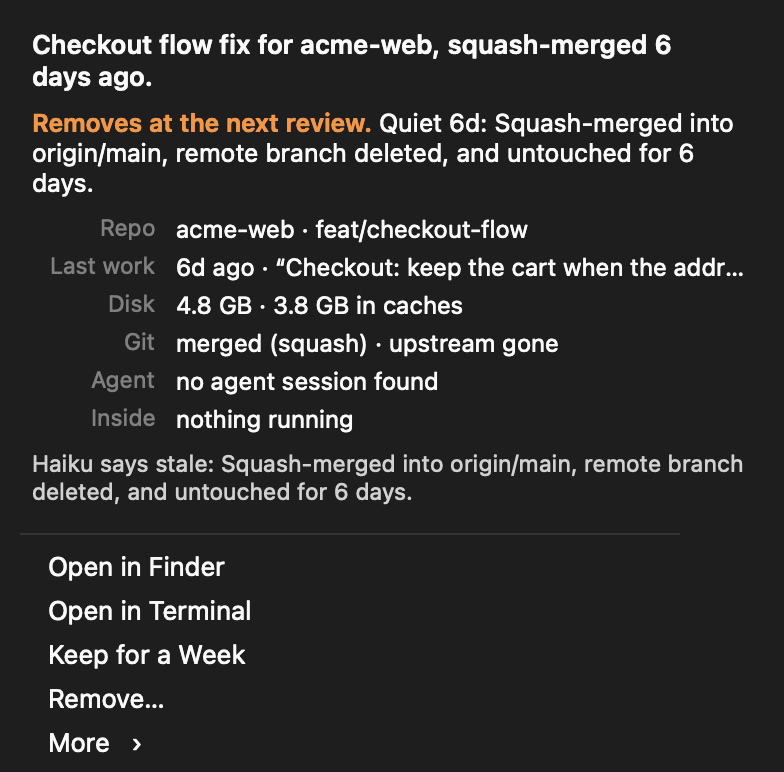
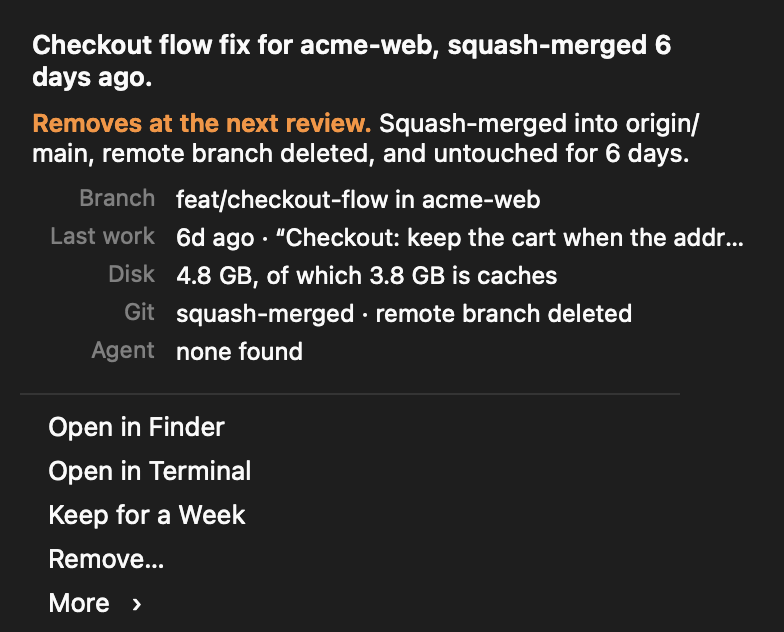
A quieter menu, held to a written standard
docs/DESIGN.md is the menu standard WorkForest and LocoHost share. The
menu now follows it:
- the header reads "5.3 GB to reclaim" with one line of counts
- the summary stops at a whole sentence
- sections carry no counts, and there are no badges
- rows show at most three facts
- cards leave out empty facts and skip the model's note when it repeats
  the status
- Main Checkouts moved into Settings
Plain words throughout: squash-merged, remote branch deleted, 1 commit
not in main.

Changed region(s): [[0.0306, 0.0301, 0.949, 0.6915], [0.0612, 0.7215, 0.3367, 0.9921]]

diff --git a/Sources/main.m b/Sources/main.m
@@ -530,11 +530,11 @@ static NSString *ShortState(WFTree *t) {
     if (t.prunable) return @"folder missing";
     if (t.dirty > 0) return Plural(t.dirty, @"change");
     if (t.untracked > 0) return [NSString stringWithFormat:@"%ld untracked", (long)t.untracked];
-    if (t.unpushed > 0 && !t.merged) return [NSString stringWithFormat:@"%ld only here", (long)t.unpushed];
-    if (t.merged) return [t.merged isEqualToString:@"ancestor"] ? @"merged" : [NSString stringWithFormat:@"merged (%@)", t.merged];
-    if ([t.upstream isEqualToString:@"gone"]) return @"upstream gone";
+    if (t.unpushed > 0 && !t.merged) return [NSString stringWithFormat:@"%@ only here", Plural(t.unpushed, @"commit")];
+    if (t.merged) return [t.merged isEqualToString:@"ancestor"] ? @"merged" : [t.merged stringByAppendingString:@"-merged"];
+    if ([t.upstream isEqualToString:@"gone"]) return @"remote branch deleted";
     if (t.locked) return @"locked";
-    if (t.notInDefault > 0) return [NSString stringWithFormat:@"%ld not in %@", (long)t.notInDefault, [t.defaultBranch.lastPathComponent ?: @"main" lastPathComponent]];
+    if (t.notInDefault > 0) return [NSString stringWithFormat:@"%@ not in %@", Plural(t.notInDefault, @"commit"), [t.defaultBranch.lastPathComponent ?: @"main" lastPathComponent]];
     return @"clean";
 }
 
@@ -542,11 +542,11 @@ static NSString *ShortState(WFTree *t) {
 static NSView *MenuHeader(uint64_t reclaim, NSString *line) {
     CGFloat w = 340;
     NSView *v = [[NSView alloc] initWithFrame:NSMakeRect(0, 0, w, 62)];
-    NSTextField *n = [NSTextField labelWithString:WFFormatBytes(reclaim)];
-    n.font = [NSFont monospacedDigitSystemFontOfSize:22 weight:NSFontWeightSemibold]; n.frame = NSMakeRect(14, 24, 200, 28); [v addSubview:n];
-    NSTextField *c = [NSTextField labelWithString:reclaim ? @"reclaimable" : @"nothing to reclaim"];
-    c.font = [NSFont systemFontOfSize:12 weight:NSFontWeightMedium]; c.textColor = NSColor.secondaryLabelColor;
-    c.alignment = NSTextAlignmentRight; c.frame = NSMakeRect(w - 164, 30, 150, 16); [v addSubview:c];
+    NSMutableAttributedString *big = [[NSMutableAttributedString alloc] initWithString:reclaim ? WFFormatBytes(reclaim) : @"Nothing"
+        attributes:@{NSFontAttributeName: [NSFont monospacedDigitSystemFontOfSize:22 weight:NSFontWeightSemibold], NSForegroundColorAttributeName: NSColor.labelColor}];
+    [big appendAttributedString:[[NSAttributedString alloc] initWithString:reclaim ? @"  to reclaim" : @"  to reclaim"
+        attributes:@{NSFontAttributeName: [NSFont systemFontOfSize:13], NSForegroundColorAttributeName: NSColor.secondaryLabelColor}]];
+    NSTextField *n = [NSTextField labelWithAttributedString:big]; n.frame = NSMakeRect(14, 24, w - 28, 28); [v addSubview:n];
     NSTextField *l = [NSTextField labelWithString:line];
     l.font = [NSFont systemFontOfSize:12]; l.textColor = NSColor.secondaryLabelColor; l.lineBreakMode = NSLineBreakByTruncatingTail;
     l.frame = NSMakeRect(14, 8, w - 28, 15); [v addSubview:l];
@@ -563,6 +563,29 @@ static NSView *MenuHeader(uint64_t reclaim, NSString *line) {
     return name;
 }
 
+/// "quiet 6d: squash-merged…" reads "squash-merged…": the card's Last work line already says how quiet it is.
+static NSString *WithoutQuietLead(NSString *why) {
+    NSRange colon = [why rangeOfString:@": "];
+    return [why hasPrefix:@"quiet "] && colon.location != NSNotFound && colon.location < 16 ? [why substringFromIndex:NSMaxRange(colon)] : why;
+}
+
+/// Whole sentences of text that fit in `lines` lines at this width, so a summary never stops mid-word.
+static NSString *FitSentences(NSString *text, NSFont *font, CGFloat width, NSInteger lines) {
+    NSMutableArray *parts = [NSMutableArray new];
+    [text enumerateSubstringsInRange:NSMakeRange(0, text.length) options:NSStringEnumerationBySentences usingBlock:^(NSString *sub, NSRange r, NSRange er, BOOL *stop) {
+        [parts addObject:[text substringWithRange:er]];
+    }];
+    CGFloat limit = lines * (font.ascender - font.descender + font.leading) + 1;
+    NSMutableString *out = [NSMutableString new];
+    for (NSString *p in parts) {
+        NSString *next = [[out stringByAppendingString:p] stringByTrimmingCharactersInSet:NSCharacterSet.whitespaceAndNewlineCharacterSet];
+        CGFloat h = [next boundingRectWithSize:NSMakeSize(width, 4000) options:NSStringDrawingUsesLineFragmentOrigin attributes:@{NSFontAttributeName: font}].size.height;
+        if (h > limit && out.length) break;
+        [out setString:[out stringByAppendingString:p]];
+    }
+    return [out stringByTrimmingCharactersInSet:NSCharacterSet.whitespaceAndNewlineCharacterSet];
+}
+
 /// Will this worktree go, and when. Plan entries that wait for the first day still count.
 - (BOOL)removesNext:(WFTree *)t {
     NSDictionary *p = self.plan[t.path];
@@ -575,7 +598,7 @@ static NSView *MenuHeader(uint64_t reclaim, NSString *line) {
     if (t.prunable) return @[@"Folder is gone.", NSColor.secondaryLabelColor, @"Git still lists this worktree. Prune, under More, tidies git's record of it."];
     NSDictionary *p = self.plan[t.path];
     NSString *why = p[@"why"] ?: WFMustKeep(t, self.review) ?: @"";
-    if ([p[@"remove"] boolValue]) return @[@"Removes at the next review.", NSColor.systemOrangeColor, Sentence(Cut(why, 220))];
+    if ([p[@"remove"] boolValue]) return @[@"Removes at the next review.", NSColor.systemOrangeColor, Sentence(Cut(WithoutQuietLead(why), 220))];
     if ([why hasPrefix:@"would remove ("]) {
         NSRange end = [why rangeOfString:@"), but " options:NSBackwardsSearch];
         NSString *inner = end.location != NSNotFound ? [why substringWithRange:NSMakeRange(14, end.location - 14)] : why;
@@ -634,23 +657,28 @@ static NSView *MenuHeader(uint64_t reclaim, NSString *line) {
         x.toolTip = value;
         [rows addObject:@[l, x]];
     };
-    fact(@"Repo", [NSString stringWithFormat:@"%@ · %@", t.repoName, t.branch ?: @"detached"]);
+    fact(@"Branch", [NSString stringWithFormat:@"%@ in %@", t.branch ?: @"detached commit", t.repoName]);
     if (t.lastWork) fact(@"Last work", [NSString stringWithFormat:@"%@ ago%@", WFDuration(t.quiet),
                                         t.lastSubject.length ? [NSString stringWithFormat:@" · “%@”", t.lastSubject] : @""]);
-    fact(@"Disk", t.sizedAt ? [NSString stringWithFormat:@"%@ · %@ in caches", WFFormatBytes(t.diskBytes), WFFormatBytes(t.cacheBytes)] : @"still measuring");
+    fact(@"Disk", t.sizedAt ? (t.cacheBytes ? [NSString stringWithFormat:@"%@, of which %@ is caches", WFFormatBytes(t.diskBytes), WFFormatBytes(t.cacheBytes)] : WFFormatBytes(t.diskBytes)) : @"still measuring");
     fact(@"Git", WFStateWords(t));
-    fact(@"Agent", t.session ? WFSessionWords(t.session) : @"no agent session found");
+    NSDictionary *se = t.session;
+    NSString *seTitle = se[@"title"] ?: se[@"first_prompt"];
+    fact(@"Agent", se ? [NSString stringWithFormat:@"%@%@, %@ ago", se[@"agent"], seTitle ? [NSString stringWithFormat:@", “%@”", seTitle] : @"",
+                         Short([se[@"last_active_minutes_ago"] doubleValue] * 60)] : @"none found");
     NSMutableArray *inside = [NSMutableArray new];
     for (NSDictionary *h in t.servers) [inside addObject:[NSString stringWithFormat:@":%@ %@", h[@"port"], h[@"framework"]]];
     for (NSString *p in t.processes) [inside addObject:[p componentsSeparatedByString:@" (pid"].firstObject];
-    fact(@"Inside", inside.count ? [[NSOrderedSet orderedSetWithArray:inside].array componentsJoinedByString:@", "] : @"nothing running");
+    if (inside.count) fact(@"Running", [[NSOrderedSet orderedSetWithArray:inside].array componentsJoinedByString:@", "]);
     NSGridView *g = [NSGridView gridViewWithViews:rows];
     g.rowSpacing = 4; g.columnSpacing = 10; [g columnAtIndex:0].xPlacement = NSGridCellPlacementTrailing;
     [g columnAtIndex:0].width = 62; [g columnAtIndex:1].xPlacement = NSGridCellPlacementLeading;   // the same columns on every card
     [s addArrangedSubview:g];
-    if (v.reason.length)
+    NSString *said = [st[2] lowercaseString], *reason = [WithoutQuietLead(v.reason ?: @"") lowercaseString];
+    BOOL repeats = reason.length > 12 && [said containsString:[reason substringToIndex:MIN(reason.length, 40)]];
+    if (v.reason.length && !repeats)
         [s addArrangedSubview:Para([NSString stringWithFormat:@"%@ says %@%@: %@", WFModelLabel(self.review.model), v.verdict, v.judged ? @" after the judge" : @"", v.reason],
-                                   [NSFont systemFontOfSize:11.5], NSColor.secondaryLabelColor, inner, 3)];
+                                   [NSFont systemFontOfSize:11.5], NSColor.secondaryLabelColor, inner, 2)];
     NSSize fit = s.fittingSize;
     s.frame = NSMakeRect(0, 0, MAX(fit.width, inner + 32), fit.height);
     NSMenuItem *i = [NSMenuItem new]; i.view = s;
@@ -659,19 +687,18 @@ static NSView *MenuHeader(uint64_t reclaim, NSString *line) {
 
 - (NSMenuItem *)treeItem:(WFTree *)t showRepo:(BOOL)showRepo {
     NSString *name = [self nameFor:t];
-    NSString *branch = t.branch && ![t.branch isEqualToString:t.name] && ![t.branch hasSuffix:name] ? t.branch : nil;
     NSMenuItem *i = [[NSMenuItem alloc] initWithTitle:name action:nil keyEquivalent:@""];
-    NSString *sub = [NSString stringWithFormat:@"%@%@ · quiet %@ · %@", showRepo ? [t.repoName stringByAppendingString:@" · "] : @"",
-                     t.sizedAt ? WFFormatBytes(t.diskBytes) : @"sizing", Short(t.quiet), ShortState(t)];
+    // At most three facts: the repo when there are several, the size, and the one state the section does not already say.
+    NSString *section = WFCategory(t, self.review), *state = ShortState(t);
+    BOOL said = ([section isEqualToString:@"merged"] && (t.merged || [state isEqualToString:@"remote branch deleted"])) || [state isEqualToString:@"clean"];
+    NSMutableArray *facts = [NSMutableArray new];
+    if (showRepo) [facts addObject:t.repoName];
+    [facts addObject:t.sizedAt ? WFFormatBytes(t.diskBytes) : @"sizing"];
+    [facts addObject:said ? [NSString stringWithFormat:@"quiet %@", Short(t.quiet)] : state];
+    NSString *sub = [facts componentsJoinedByString:@" · "];
     BOOL modern = NO;
-    if (@available(macOS 14.4, *)) {
-        modern = YES;
-        i.title = branch ? [NSString stringWithFormat:@"%@   %@", Cut(name, 34), Cut(branch, 30)] : Cut(name, 48);
-        i.subtitle = sub;
-        if ([self removesNext:t]) i.badge = [[NSMenuItemBadge alloc] initWithString:@"removes next"];
-        else if (t.merged && ![WFCategory(t, self.review) isEqualToString:@"merged"]) i.badge = [[NSMenuItemBadge alloc] initWithString:@"merged"];
-    }
-    if (!modern) i.attributedTitle = Titled(branch ? [NSString stringWithFormat:@"%@   %@", Cut(name, 34), Cut(branch, 30)] : Cut(name, 48), sub);
+    if (@available(macOS 14.4, *)) { modern = YES; i.title = Cut(name, 48); i.subtitle = sub; }
+    if (!modern) i.attributedTitle = Titled(Cut(name, 48), sub);
 
     NSMenu *m = [NSMenu new];
     [m addItem:[self cardFor:t]];
@@ -740,8 +767,9 @@ static NSDictionary<NSString *, NSString *> *Prefixes(NSArray<WFTree *> *trees) 
 
     NSMenu *menu = [NSMenu new];
     NSString *line = !self.scanner.scannedAt ? @"Looking for worktrees…"
-        : [NSString stringWithFormat:@"%@ · %@ · %ld removable · %@", Plural(linked.count, @"worktree"), Plural(repos, @"repo"), (long)removable,
-           WFCurrentMode() != WFModeIdle && !WFGraceOver() ? [NSString stringWithFormat:@"%@ acts in %@", WFModeLabel(WFCurrentMode()), Short(WFGraceLeft())] : WFModeLabel(WFCurrentMode())];
+        : [NSString stringWithFormat:@"%@ in %@ · %@", Plural(linked.count, @"worktree"), Plural(repos, @"repo"),
+           WFCurrentMode() != WFModeIdle && !WFGraceOver() ? [NSString stringWithFormat:@"%@ starts in %@", WFModeLabel(WFCurrentMode()), Short(WFGraceLeft())] : WFModeLabel(WFCurrentMode())];
+    (void)removable;
     NSMenuItem *head = [NSMenuItem new];
     head.view = MenuHeader(reclaim, line);
     [menu addItem:head];
@@ -756,11 +784,11 @@ static NSDictionary<NSString *, NSString *> *Prefixes(NSArray<WFTree *> *trees) 
         note = totals.location != NSNotFound && NSMaxRange(totals) < r.summary.length ? [r.summary substringFromIndex:NSMaxRange(totals)] : r.summary;
     }
     else if (!r && linked.count) note = @"No review yet. Review Now asks Haiku or Luna which worktrees are still wanted.";
-    if (note) { [menu addItem:TextItem(note, 4)]; [menu addItem:NSMenuItem.separatorItem]; }
+    if (note) { [menu addItem:TextItem(FitSentences(note, [NSFont systemFontOfSize:12.5], 312, 3), 3)]; [menu addItem:NSMenuItem.separatorItem]; }
 
     if (clean.count) {
         NSMenuItem *go = Item(menu, @"Clean Up", self.removing ? NULL : @selector(cleanUp), self, NO);
-        go.attributedTitle = Titled(@"Clean Up", [NSString stringWithFormat:@"%@ · %@", Plural(clean.count, @"worktree"), WFFormatBytes(cleanDisk)]);
+        go.attributedTitle = Titled(@"Clean Up", [NSString stringWithFormat:@"%@, %@", Plural(clean.count, @"worktree"), WFFormatBytes(cleanDisk)]);
         go.toolTip = @"Removes what the last review calls stale, when nothing keeps it: no changes, no commits only here, nothing running, no agent or file change in the last day.";
     }
     NSMenuItem *rv = Item(menu, self.reviewing ? @"Reviewing…" : @"Review Now", self.reviewing ? NULL : @selector(reviewNow), self, NO);
@@ -775,14 +803,14 @@ static NSDictionary<NSString *, NSString *> *Prefixes(NSArray<WFTree *> *trees) 
         [(groups[c] ?: (groups[c] = [NSMutableArray new])) addObject:t];
     }
     if (self.scanner.scannedAt && !linked.count) Header(menu, @"No linked worktrees");
-    for (NSArray *sec in @[@[@"merged", @"Merged or upstream gone"], @[@"stale", @"Stale"], @[@"active", @"Holding work or in use"], @[@"quiet", @"Quiet"]]) {
+    for (NSArray *sec in @[@[@"merged", @"Merged"], @[@"stale", @"Stale"], @[@"active", @"In use"], @[@"quiet", @"Quiet"]]) {
         NSArray *g = [groups[sec[0]] sortedArrayUsingComparator:^NSComparisonResult(WFTree *a, WFTree *b) {
             return a.diskBytes > b.diskBytes ? NSOrderedAscending : a.diskBytes < b.diskBytes ? NSOrderedDescending : NSOrderedSame; }];
         if (!g.count) continue;
-        Section(menu, [NSString stringWithFormat:@"%@ · %lu", sec[1], (unsigned long)g.count]);
+        Section(menu, sec[1]);
         NSMenu *rest = [NSMenu new];
         NSUInteger n = 0;
-        for (WFTree *t in g) [(n++ < 8 ? menu : rest) addItem:[self treeItem:t showRepo:showRepo]];
+        for (WFTree *t in g) [(n++ < 6 ? menu : rest) addItem:[self treeItem:t showRepo:showRepo]];
         if (rest.numberOfItems) Sub(menu, [NSString stringWithFormat:@"%ld More", (long)rest.numberOfItems], rest);
     }
     [menu addItem:NSMenuItem.separatorItem];
@@ -791,12 +819,6 @@ static NSDictionary<NSString *, NSString *> *Prefixes(NSArray<WFTree *> *trees) 
         NSMenu *gm = [NSMenu new];
         for (WFTree *t in gone) [gm addItem:[self treeItem:t showRepo:showRepo]];
         Sub(menu, @"Missing Folders", gm);
-    }
-    NSArray *mains = [all filteredArrayUsingPredicate:[NSPredicate predicateWithFormat:@"isMain == YES"]];
-    if (mains.count) {
-        NSMenu *mm = [NSMenu new];
-        for (WFTree *t in mains) [mm addItem:[self treeItem:t showRepo:NO]];
-        Sub(menu, @"Main Checkouts", mm);
     }
     NSArray *rem = WFRemoved();
     if (rem.count) {
@@ -851,6 +873,12 @@ static NSDictionary<NSString *, NSString *> *Prefixes(NSArray<WFTree *> *trees) 
     Item(set, @"Launch at Login", @selector(toggleLogin), self, SMAppService.mainAppService.status == SMAppServiceStatusEnabled);
     Item(set, @"Edit Rules…", @selector(editRules), self, NO);
     Item(set, @"Rescan Now", @selector(rescan), self, NO);
+    NSArray *mains = [all filteredArrayUsingPredicate:[NSPredicate predicateWithFormat:@"isMain == YES"]];
+    if (mains.count) {
+        NSMenu *mm = [NSMenu new];
+        for (WFTree *t in mains) [mm addItem:[self treeItem:t showRepo:NO]];
+        Sub(set, @"Main Checkouts", mm);
+    }
     [set addItem:NSMenuItem.separatorItem];
     Header(set, [NSString stringWithFormat:@"WorkForest %@ · scanned %@", NSBundle.mainBundle.infoDictionary[@"CFBundleShortVersionString"] ?: @"",
                  self.scanner.scannedAt ? [NSString stringWithFormat:@"%@ ago", Short(-self.scanner.scannedAt.timeIntervalSinceNow)] : @"now"]);

diff --git a/Sources/Forest.m b/Sources/Forest.m
@@ -62,16 +62,16 @@ static NSString *Plural(NSInteger n, NSString *word) { return [NSString stringWi
 NSString *WFStateWords(WFTree *t) {
     if (t.prunable) return @"folder missing";
     NSMutableArray *p = [NSMutableArray new];
-    if (t.merged) [p addObject:[t.merged isEqualToString:@"ancestor"] ? @"merged" : [NSString stringWithFormat:@"merged (%@)", t.merged]];
-    if ([t.upstream isEqualToString:@"gone"]) [p addObject:@"upstream gone"];
+    if (t.merged) [p addObject:[t.merged isEqualToString:@"ancestor"] ? @"merged" : [t.merged stringByAppendingString:@"-merged"]];
+    if ([t.upstream isEqualToString:@"gone"]) [p addObject:@"remote branch deleted"];
     else if ([t.upstream isEqualToString:@"none"] && !t.isMain) [p addObject:@"never pushed"];
     if (t.dirty > 0) [p addObject:Plural(t.dirty, @"change")];
     if (t.dirty < 0) [p addObject:@"status unknown"];
     if (t.untracked > 0) [p addObject:Plural(t.untracked, @"untracked file")];
-    if (t.unpushed > 0 && !t.merged) [p addObject:[NSString stringWithFormat:@"%ld only here", (long)t.unpushed]];
+    if (t.unpushed > 0 && !t.merged) [p addObject:[NSString stringWithFormat:@"%@ only here", Plural(t.unpushed, @"commit")]];
     if (t.detached) [p addObject:t.orphanCommits > 0 ? [NSString stringWithFormat:@"detached, %ld commits no branch holds", (long)t.orphanCommits] : @"detached"];
     if (t.locked) [p addObject:@"locked"];
-    if (!t.merged && t.notInDefault > 0) [p addObject:[NSString stringWithFormat:@"%ld not in %@", (long)t.notInDefault, t.defaultBranch ?: @"default"]];
+    if (!t.merged && t.notInDefault > 0) [p addObject:[NSString stringWithFormat:@"%@ not in %@", Plural(t.notInDefault, @"commit"), t.defaultBranch ?: @"the default branch"]];
     return p.count ? [p componentsJoinedByString:@" · "] : @"clean";
 }
 

diff --git a/docs/HOW-IT-WORKS.md b/docs/HOW-IT-WORKS.md
@@ -71,11 +71,11 @@ No mode acts until WorkForest has watched for a day. The day starts at the app's
 
 ## The menu
 
-The top of the menu says how much disk the worktrees that would go next hold, and one line of counts with the mode. The review's summary follows in plain sentences. *Clean Up* appears only when the last review calls something stale that nothing keeps. *Review Now* says how long ago the last review ran, and its tooltip names the model, the tokens and what woke it.
+The menu follows the standard in [DESIGN.md](DESIGN.md). The top says how much disk the worktrees that would go next hold, as "5.3 GB to reclaim", with one line of counts and the mode under it. The review's summary follows in up to three lines, cut at a whole sentence. *Clean Up* appears only when the last review calls something stale that nothing keeps. *Review Now* says how long ago the last review ran, and its tooltip names the model, the tokens and what woke it.
 
-Worktrees are listed under section headers: merged or upstream gone, stale, holding work or in use, and quiet, with the largest first and eight per section before a *More* submenu. A row shows the folder name without the start its repo's worktrees share, the branch when it says something more, and a line with the repo, disk, quiet time and state. A *removes next* badge marks what the mode removes at the next review.
+Worktrees are listed under four section headers, Merged, Stale, In use and Quiet, with the largest first and six per section before a *More* submenu. A row shows the folder name without the start its repo's worktrees share, and under it at most three facts: the repo when there are several, the disk, and the one state the section does not already say, such as "3 changes" or "quiet 6d". Main checkouts are listed under Settings.
 
-Each row opens a card: what the worktree is, then in color whether it stays and why, or that it goes at the next review. Then come the facts behind that, the model's note, and Open in Finder, Open in Terminal, Keep for a Week, Remove and More. Remove is greyed out while a keep rule holds, and its tooltip says which one.
+Each row opens a card: what the worktree is, then in color whether it stays and why, or that it goes at the next review. Then come up to five facts behind that, leaving out the empty ones, the model's note when it adds to the status, and Open in Finder, Open in Terminal, Keep for a Week, Remove and More. Remove is greyed out while a keep rule holds, and its tooltip says which one.
 
 ## Removing
 

diff --git a/docs/DESIGN.md b/docs/DESIGN.md
@@ -1,0 +1,41 @@
+# Menu standard
+
+WorkForest and LocoHost share one standard for their menus. A change that breaks a rule here is a bug.
+
+## The menu is native
+
+The menu is an NSMenu. A popover was tried and felt slow next to the system's own menus. Custom views are used only for text meant to be read: the header, the summary and the hover card. Text that should be read is never a disabled item, because macOS greys those out.
+
+## Every line earns its place
+
+1. Every line answers a question the person has. Nothing decorative: no SF Symbols on items, no bars that need a legend, no unlabeled icon rows.
+2. A number appears once. The header counts. Section headers do not repeat counts, and rows do not repeat what their section says.
+3. The main menu holds at most:
+   - a header of two lines
+   - a summary of at most three lines, cut at a whole sentence and never mid-word
+   - two actions, shown only when they can do something
+   - four sections of at most six rows each, with the rest under a "More" item
+   - a footer of at most three items, such as Recently Removed, Settings and Quit
+4. A row is a name and at most three facts, ordered owner · size · state. No badge when the section already says it.
+5. A hover card holds:
+   - a title of one or two lines
+   - a colored status of at most two lines, saying in plain words why the item stays or when it goes, and what happens next
+   - at most five aligned facts, leaving out the empty ones
+   - the model's note in at most two lines, and only when it adds to the status
+   - at most four actions, with the rest under More
+
+## Words
+
+- Plain words. "Squash-merged", not "merged (squash)". "Remote branch deleted", not "upstream gone". "1 commit not in main", not "1 not in main".
+- No parentheses as asides.
+- Gray tails carry only time and size: "Review Now   9m ago", "Clean Up   2 worktrees, 5.3 GB".
+- Truncate at the tail, never in the middle.
+
+## Checked, not assumed
+
+After any change to the menu, render it with `tools/render.sh` and look at the PNGs in light and dark. Check that:
+
+- titles and the first fact on each line are not cut off
+- the fact columns line up from card to card
+- spacing stays even
+- nothing says the same thing twice

diff --git a/README.md b/README.md
@@ -12,7 +12,7 @@ Free and MIT licensed · macOS 13 or newer · [Install](#install) · [How it wor
 
 | | |
 |---|---|
-| <img src="docs/images/menu.png" width="380" alt="The WorkForest menu: 5.3 GB reclaimable in large type, then 5 worktrees, 2 repos, 2 removable, Eager. Under it the review's summary in plain sentences, Clean Up with 2 worktrees and 5.3 GB, and Review Now from 9 minutes ago. The worktrees follow under section headers, each with its name, branch and a line such as 4.8 GB, quiet 6 days, merged by squash. Two carry a removes next badge."> | <img src="docs/images/card.png" width="392" alt="The hover card of one worktree: Checkout flow fix for acme-web, squash-merged 6 days ago. In orange: Removes at the next review, with why. Then aligned facts: repo and branch, last work with the commit subject, disk with the part in caches, git state, agent and what runs inside. Then the model's note, and the actions Open in Finder, Open in Terminal, Keep for a Week, Remove and More."> |
+| <img src="docs/images/menu.png" width="380" alt="The WorkForest menu: 5.3 GB to reclaim in large type, then 5 worktrees in 2 repos, Eager. Under it two sentences of the review's summary, Clean Up with 2 worktrees and 5.3 GB, and Review Now from 9 minutes ago. The worktrees follow under the headers Merged, In use and Quiet, each with its name and a line such as acme-web, 4.8 GB, quiet 6d."> | <img src="docs/images/card.png" width="392" alt="The hover card of one worktree: Checkout flow fix for acme-web, squash-merged 6 days ago. In orange: Removes at the next review, with why. Then five aligned facts: branch, last work with the commit subject, disk with the part in caches, git state, and agent. Then the actions Open in Finder, Open in Terminal, Keep for a Week, Remove and More."> |
 | **The menu.** How much disk you can get back, what the review found, and every worktree with its size, quiet time and state. | **A worktree.** What it is, whether it stays and why, the facts behind that, and what you can do. |
 
 Both pictures are offscreen renders of the menu code with made-up worktrees, as [docs/RENDER.md](docs/RENDER.md) describes. The menu itself is a native macOS menu.

diff --git a/AGENTS.md b/AGENTS.md
@@ -20,7 +20,7 @@ Never run `workforest auto` without `--dry-run`, `clean-up`, `remove` or `prune`
 - `Sources/main.m`: the CLI (`RunCLI`), the review triggers (`watchEvents`) and the menu bar UI.
 - `tools/`: `mkicon.m` renders the icon. The fakes for tests are `fakeclaude.py`, `fakecodex.py` and `fakeanswer.py`. `tools/render.m` renders the menu and hover cards offscreen to PNG, as [docs/RENDER.md](docs/RENDER.md) describes.
 
-**The menu** is a native NSMenu, kept that way on purpose. Text meant to be read is a custom view in secondaryLabelColor (`TextItem`, `Para`), never a disabled item, which macOS greys out. Rows use title, subtitle and badge from macOS 14.4, with a one-line fallback. Each row's submenu starts with one card (`cardFor:`), whose status (`statusFor:`) says in plain words why the worktree stays or when it goes. Use tail truncation only. No decorative SF Symbols on items. After a change to the menu, render it with `tools/render.m` and look at the PNGs.
+**The menu** follows [docs/DESIGN.md](docs/DESIGN.md), the standard shared with LocoHost. It is a native NSMenu, kept that way on purpose. Text meant to be read is a custom view in secondaryLabelColor (`TextItem`, `Para`), never a disabled item, which macOS greys out. Rows use title, subtitle and badge from macOS 14.4, with a one-line fallback. Each row's submenu starts with one card (`cardFor:`), whose status (`statusFor:`) says in plain words why the worktree stays or when it goes. Use tail truncation only. No decorative SF Symbols on items. After a change to the menu, render it with `tools/render.m` and look at the PNGs.
 
 **Invariants that must hold after any change**
 

diff --git a/CHANGELOG.md b/CHANGELOG.md
@@ -2,6 +2,18 @@
 
 All notable changes to WorkForest. Format follows [Keep a Changelog](https://keepachangelog.com/).
 
+## [Unreleased]
+
+### Changed
+- A quieter menu, held to the new standard in docs/DESIGN.md:
+  - the header reads "5.3 GB to reclaim", with one line of counts under it
+  - the summary ends on a whole sentence
+  - sections carry no counts, and there are no badges
+  - rows show at most three facts
+  - cards leave out empty facts and skip the model's note when it repeats the status
+  - Main Checkouts moved into Settings
+- Plain words: "squash-merged", "remote branch deleted", "1 commit not in main".
+
 ## [0.1.0] - 2026-10-27
 
 ### Added
